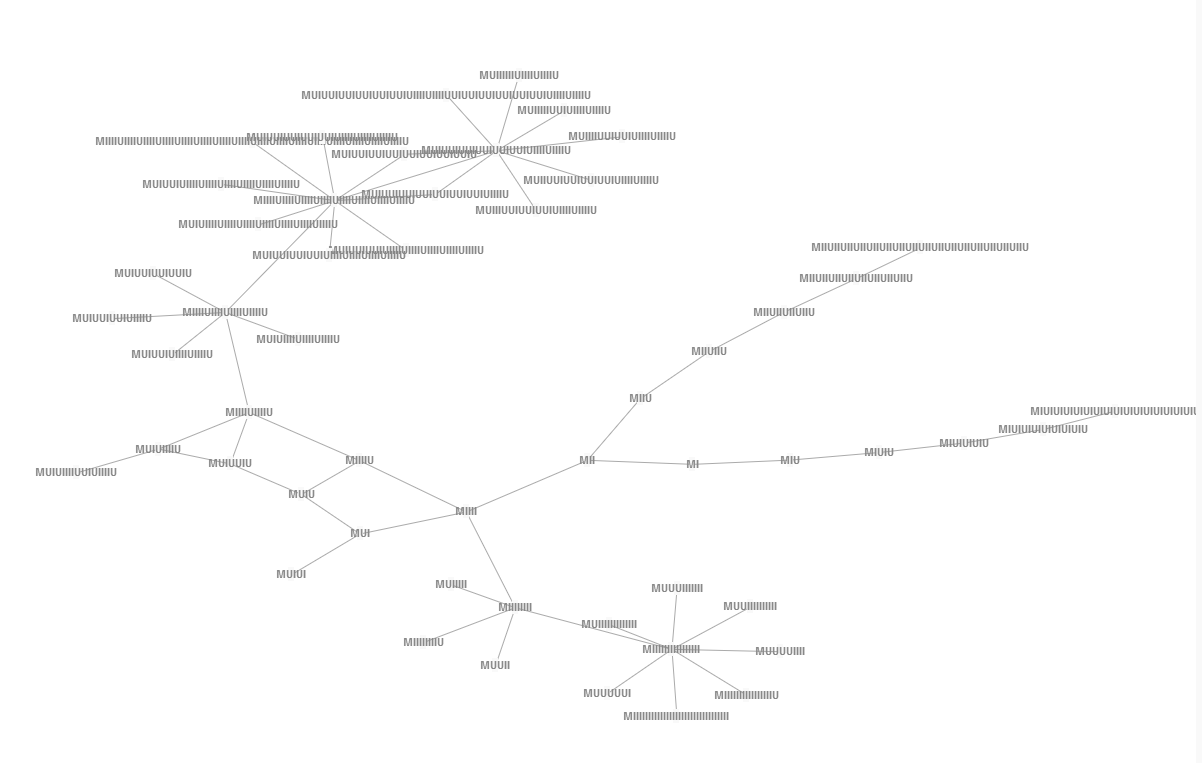
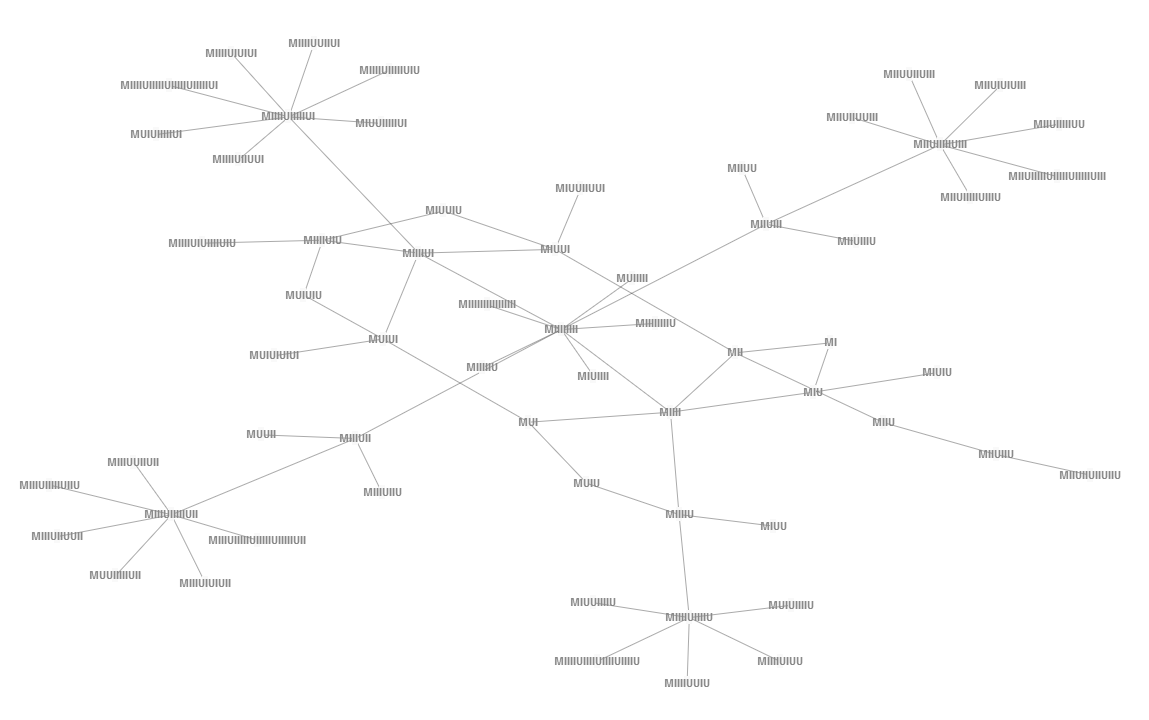
fix behaviour of rules 3 & 4, add new example.png since the whole thing works and looks better.

diff --git a/mu-puzzle/main.js b/mu-puzzle/main.js
@@ -165,15 +165,17 @@
         // rule 3
         var r3temp = label;
         while (r3temp.indexOf('III') != -1) {
-          r3temp = r3temp.replace('III', 'U');
-          sys.addEdge(label, r3temp);
+          var newlabel = r3temp.replace('III', 'U').replace(/XXX/g, 'I');
+          r3temp = r3temp.replace('I', 'XXX');
+          sys.addEdge(label, newlabel);
           nodeCount++;
         }
         // rule 4
         var r4temp = label;
         while (r4temp.indexOf('UU') != -1) {
-          r4temp = r4temp.replace('UU', '');
-          sys.addEdge(label, r4temp);
+          var newlabel = r4temp.replace('UU', '').replace(/XXX/g, 'U');
+          r4temp = r4temp.replace('U', 'XXX');
+          sys.addEdge(label, newlabel);
           nodeCount++;
         }
         node.data.filled = true;
